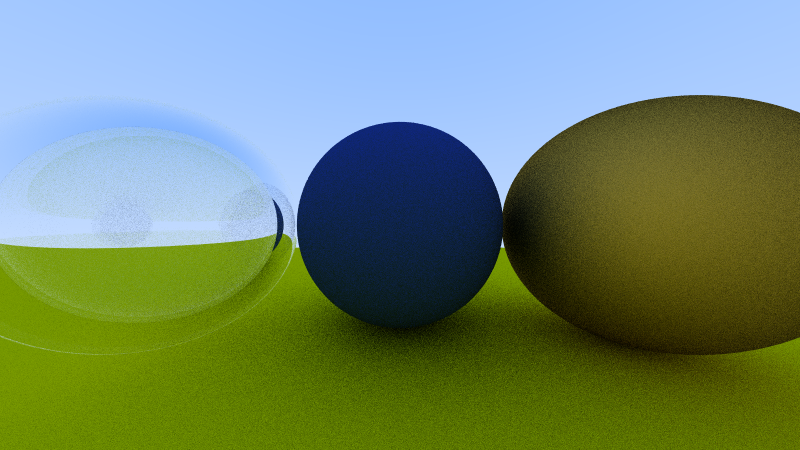
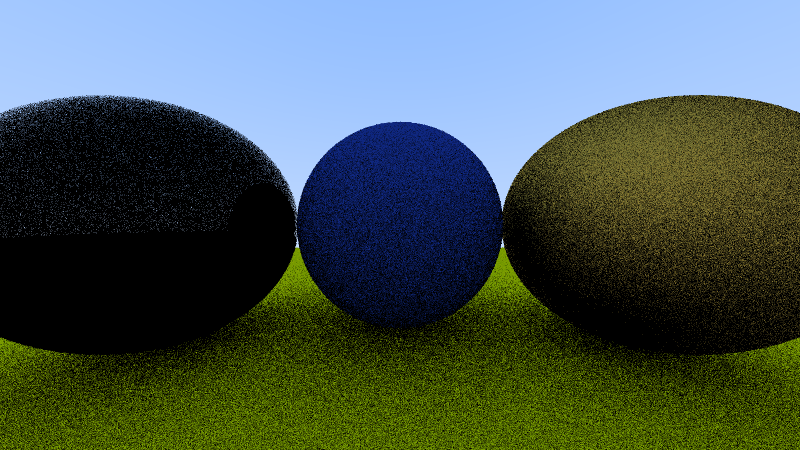
Save render button added

diff --git a/src/main.cpp b/src/main.cpp
@@ -19,6 +19,14 @@
 
 #define IMAGE_WIDTH_CONST 800
 
+void SaveRender(std::vector<float> pixelValues, int image_width, int image_height) {
+    std::vector<unsigned char> pngPixels(pixelValues.size());
+    for (int i = 0; i < pixelValues.size(); i++) {
+        pngPixels[i] = (unsigned char)(pixelValues[i] * 255.99f);
+    }
+    stbi_flip_vertically_on_write(1);
+    stbi_write_png("render.png", image_width, image_height, 3, pngPixels.data(), image_width * 3);
+}
 
 int main(void)
 {
@@ -38,13 +46,15 @@ int main(void)
     world.add(make_shared<sphere>(point3(0.0, 0.0, -1.2), 0.5, material_center));
     world.add(make_shared<sphere>(point3(-1.0, 0.0, -1.0), 0.5, material_left));
     world.add(make_shared<sphere>(point3(-1.0, 0.0, -1.0), 0.4, material_bubble));
-    world.add(make_shared<sphere>(point3(1.0, 0.0, -1.0), 0.5, material_right));;
+    world.add(make_shared<sphere>(point3(1.0, 0.0, -1.0), 0.5, material_right));
 
+
+    // Camera setup
     camera cam;
     cam.aspect_ratio = 16.0 / 9.0;
     cam.image_width = IMAGE_WIDTH_CONST;
-    cam.samples_per_pixel = 50;
-    cam.max_depth = 20;
+    cam.samples_per_pixel = 5;
+    cam.max_depth = 2;
 
     // to Calculate the render time
     auto start = std::chrono::high_resolution_clock::now(); // start the clock
@@ -61,12 +71,7 @@ int main(void)
     int image_width = IMAGE_WIDTH_CONST;
     int image_height = int(IMAGE_WIDTH_CONST / cam.aspect_ratio);
     
-    std::vector<unsigned char> pngPixels(pixelValues.size());
-    for (int i = 0; i < pixelValues.size(); i++) {
-        pngPixels[i] = (unsigned char)(pixelValues[i] * 255.99f);
-    }
-    stbi_flip_vertically_on_write(1);
-    stbi_write_png("render.png", image_width, image_height, 3, pngPixels.data(), image_width * 3);
+    
 
     window = glfwCreateWindow(image_width, image_height, "My RayTracer", NULL, NULL);
     if (!window)
@@ -80,7 +85,7 @@ int main(void)
     std::mt19937 rng(42);
     std::uniform_real_distribution<float> dist(0.0f, 1.0f);
 
-    // create IMGUI window
+    // Setup ImGui
     IMGUI_CHECKVERSION();
     ImGui::CreateContext();
     ImGui_ImplGlfw_InitForOpenGL(window, true);
@@ -110,6 +115,9 @@ int main(void)
         if (ImGui::Button("Render")) {
             pixelValues.clear();
             cam.render(world, pixelValues);
+        }
+        if (ImGui::Button("Save Render")) {
+            SaveRender(pixelValues, image_width, image_height);
         }
         ImGui::End();
 